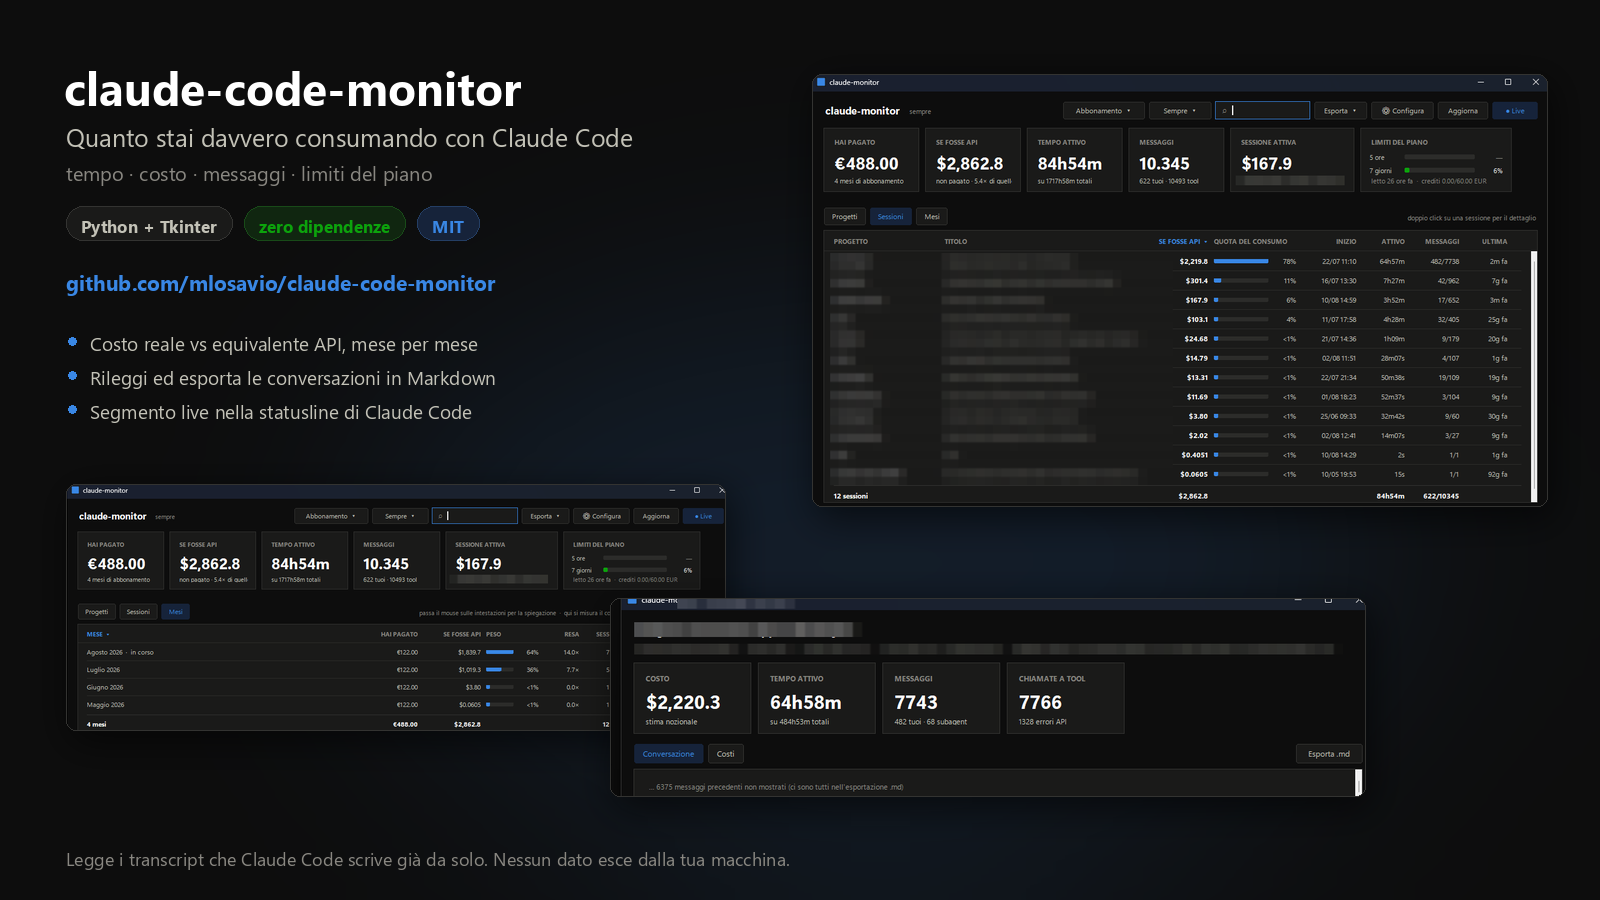
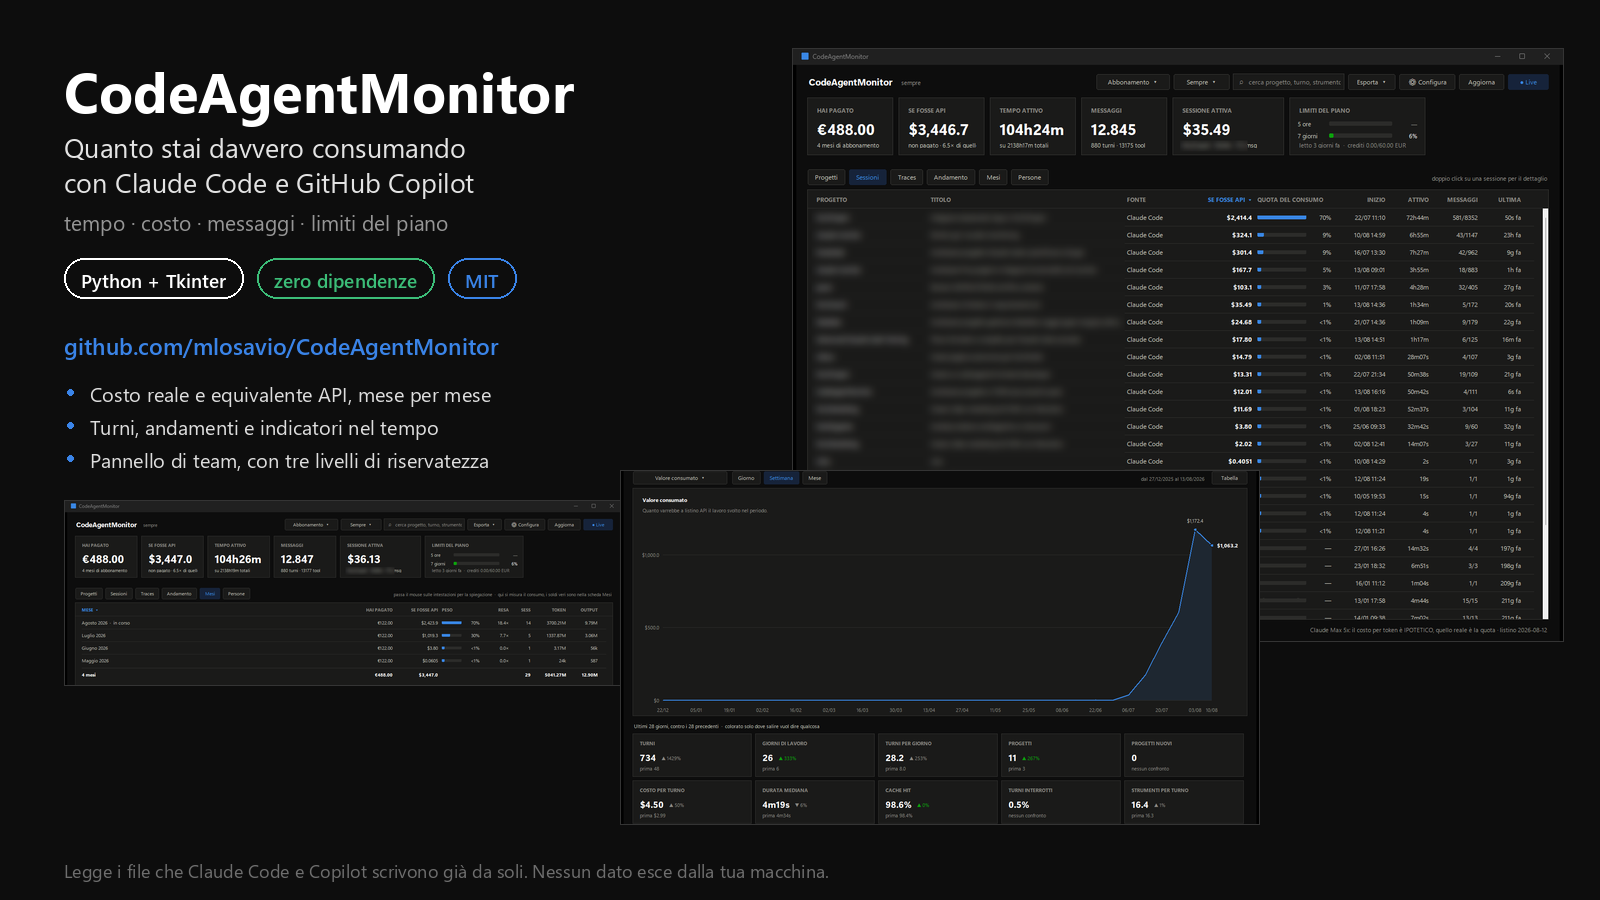
Linux provato, la copertina non mente piu', e un token che diceva il falso
La copertina era rimasta al nome vecchio: diceva «claude-code-monitor»,
mostrava barre delle finestre «claude-monitor» e mandava a un indirizzo
GitHub che non e' piu' quello. Era la prima cosa che si vedeva sul repo,
e smentiva il commit che ha cambiato nome. Rifatta dalle finestre di
oggi: numeri veri e aggiornati (488 EUR pagati contro $3.446,7 a
listino), nomi dei progetti sfocati come prima, e le righe Copilot
accanto a quelle Claude Code col trattino nei costi — che e' la cosa
che la vecchia immagine non poteva mostrare.

PF11, meta' Linux. Le 491 prove girano verdi su Ubuntu 22.04 con Python
3.10, in una cartella nativa e non su /mnt/c, e il CLI e' stato usato
li' davvero. Le tre cose «da verificare» erano indovinate, ma nessuna
e' andata come previsto:

  chiave()          il codice era giusto, la prova era sbagliata. Su
                    POSIX normcase non tocca le maiuscole, ed e' giusto:
                    li' Sessione.jsonl e SESSIONE.jsonl sono due file
                    diversi. La prova ora si divide col sistema.

  _progetto_di()    bug vero. lstrip("/") e' giusto per file:///c%3A/…
                    e sbagliato ovunque altro: su Linux e macOS
                    /home/tizio/X diventava home/tizio/X, un percorso
                    RELATIVO. Il nome del progetto restava giusto, quindi
                    non si vedeva: sbagliava solo il percorso, che e'
                    quello che finisce in archivio.
[…]

diff --git a/test_copilot.py b/test_copilot.py
@@ -159,6 +159,39 @@ def prova_senza_progetto(tmp):
              ["(senza progetto)", "(senza progetto)"])
 
 
+def prova_percorsi_dei_tre_sistemi(tmp):
+    print("\nIl percorso del progetto, come lo scrive VS Code su ognuno dei tre sistemi")
+    # Non dipende dal sistema su cui girano le prove: e' la stessa funzione a
+    # dover leggere tutte e tre le forme, perche' l'archivio di una postazione
+    # puo' finire su un'altra — e perche' altrimenti questa prova sarebbe verde
+    # su Windows proprio dove il codice sbagliava.
+    d = os.path.join(tmp, "ws")
+    os.makedirs(d, exist_ok=True)
+
+    def percorso_da(uri):
+        with open(os.path.join(d, "workspace.json"), "w", encoding="utf-8") as fh:
+            json.dump({"folder": uri}, fh)
+        return cp._progetto_di(d)
+
+    nome, path = percorso_da("file:///c%3A/MLO/D/Projects/Tizio")
+    verifica("Windows: la lettera di unita' torna maiuscola", path, "C:/MLO/D/Projects/Tizio")
+    verifica("Windows: e il nome e' l'ultima cartella", nome, "Tizio")
+
+    nome, path = percorso_da("file:///home/tizio/Progetti/Caio")
+    verifica("Linux: il percorso resta assoluto", path, "/home/tizio/Progetti/Caio")
+    verifica("Linux: e non relativo", path.startswith("/"), True)
+    verifica("Linux: il nome e' l'ultima cartella", nome, "Caio")
+
+    nome, path = percorso_da("file:///Users/tizio/Progetti/Sempronio")
+    verifica("macOS: il percorso resta assoluto", path, "/Users/tizio/Progetti/Sempronio")
+    verifica("macOS: il nome e' l'ultima cartella", nome, "Sempronio")
+
+    nome, path = percorso_da("file:///home/tizio/Con%20Spazio")
+    verifica("gli spazi codificati tornano spazi", path, "/home/tizio/Con Spazio")
+
+    os.remove(os.path.join(d, "workspace.json"))
+
+
 def prova_testo(tmp):
     print("\nIl testo, solo se richiesto")
     scrivi_sessione(tmp, "abc", "s.json",
@@ -227,8 +260,8 @@ def main() -> int:
     print("Prove sulla sorgente Copilot")
     print("=" * 72)
     for prova in (prova_lettura, prova_niente_costo, prova_file_strani,
-                  prova_senza_progetto, prova_testo, prova_ordine,
-                  prova_integrazione):
+                  prova_senza_progetto, prova_percorsi_dei_tre_sistemi,
+                  prova_testo, prova_ordine, prova_integrazione):
         tmp = tempfile.mkdtemp(prefix="cam-copilot-")
         try:
             prova(tmp)

diff --git a/cam_gui.py b/cam_gui.py
@@ -107,6 +107,28 @@ def windows_prefers_dark() -> bool:
         return False
 
 
+def apri_cartella(dove: str) -> bool:
+    """Apre una cartella nel gestore file del sistema. True se ci e' riuscita.
+
+    Ogni sistema ha il suo comando e nessuno dei tre esiste sugli altri:
+    `os.startfile` c'e' solo su Windows, `open` solo su macOS. Il valore di
+    ritorno serve perche' chi ha appena risposto «si'» a «apro la cartella?»
+    deve sapere se e' successo: fallire in silenzio dopo una domanda e' peggio
+    che non averla fatta.
+    """
+    try:
+        if os.name == "nt":
+            os.startfile(dove)  # type: ignore[attr-defined]  # solo Windows
+        else:
+            import subprocess
+            comando = "open" if sys.platform == "darwin" else "xdg-open"
+            subprocess.Popen([comando, dove],
+                             stdout=subprocess.DEVNULL, stderr=subprocess.DEVNULL)
+        return True
+    except Exception:
+        return False
+
+
 class Theme:
     def __init__(self, mode: str):
         self.mode = mode
@@ -3724,10 +3746,9 @@ class App:
                     if messagebox.askyesno(APP_TITLE,
                                            f"Esportate {result['written']} conversazioni.\n\n"
                                            "Apro la cartella?"):
-                        try:
-                            os.startfile(dove)
-                        except Exception:
-                            pass
+                        if not apri_cartella(dove):
+                            self.l_status.config(
+                                text=f"⚠ non riesco ad aprire la cartella  ·  {dove}")
                 else:
                     _, _r, _d, err = payload
                     self._set_progress(0)

diff --git a/test_archivio.py b/test_archivio.py
@@ -136,8 +136,19 @@ def prova_cache(tmp, base):
         verifica("il file e' in cache", k in idx, True)
         verifica("con la sua dimensione", idx[k][0], st.st_size)
         verifica("e il record si rilegge", a.record(path)["session_id"], SID)
-        verifica("un percorso scritto diversamente e' lo stesso file",
-                 ar.chiave(path.replace("\\", "/").upper()) == k, True)
+        # Vale ovunque: i segmenti ridondanti spariscono, il file resta uno.
+        ovvio = os.path.join(os.path.dirname(path), ".", os.path.basename(path))
+        verifica("un percorso con segmenti in piu' e' lo stesso file",
+                 ar.chiave(ovvio) == k, True)
+        # Qui le due famiglie di sistemi si dividono, e la forma canonica deve
+        # dividersi con loro: su Windows Cartella\File e CARTELLA/FILE sono lo
+        # stesso file, su Linux e' un altro file — che potrebbe esistere davvero.
+        if os.path.normcase("A") == "a":
+            verifica("su Windows maiuscole e barre non contano",
+                     ar.chiave(path.replace("\\", "/").upper()) == k, True)
+        else:
+            verifica("su POSIX un altro modo di scrivere le maiuscole e' un altro file",
+                     ar.chiave(path.upper()) == k, False)
         verifica("un file mai visto non c'e'", a.record(path + ".altro"), None)
 
 

diff --git a/cam_collector.py b/cam_collector.py
@@ -1859,9 +1859,13 @@ def print_setup(endpoint: str, token: str | None = None) -> None:
     print()
     if token:
         print("L'intestazione porta il token, quindi chi usa la postazione lo")
-        print("puo' leggere: autorizza a scrivere in archivio, non a leggerlo.")
-        print("Senza, l'esportatore prende 401, ritenta in silenzio e smette —")
-        print("nessun errore da nessuna parte, solo telemetria che non arriva.")
+        print("puo' leggere — ed e' LO STESSO token che apre il cruscotto, dove")
+        print("si vede quanto consuma ogni collega. Distribuirlo e' quindi una")
+        print("decisione, non un dettaglio tecnico: o lo si accetta, o il")
+        print("cruscotto non va esposto alla rete.")
+        print("Senza token, l'esportatore prende 401, ritenta in silenzio e")
+        print("smette — nessun errore da nessuna parte, solo telemetria che")
+        print("non arriva.")
         print()
     elif not endpoint.startswith(("http://127.0.0.1", "http://localhost")):
         print("Il raccoglitore non e' in locale ma qui non c'e' nessun token.")

diff --git a/cam_copilot.py b/cam_copilot.py
@@ -84,11 +84,14 @@ def _progetto_di(cartella_hash: str) -> tuple[str | None, str | None]:
         return None, None
     if not uri:
         return None, None
-    # file:///c%3A/MLO/D/Projects/Tizio -> C:/MLO/D/Projects/Tizio
     p = urllib.parse.unquote(urllib.parse.urlparse(uri).path or "")
-    p = p.lstrip("/")
-    if len(p) > 1 and p[1] == ":":
-        p = p[0].upper() + p[1:]
+    # file:///c%3A/MLO/D/Projects/Tizio -> C:/MLO/D/Projects/Tizio
+    # La barra iniziale si toglie solo se davanti a una lettera di unita': su
+    # macOS e Linux e' parte del percorso, e toglierla lo renderebbe relativo —
+    # cioe' riferito alla cartella da cui e' partito il programma, che non
+    # c'entra niente.
+    if len(p) > 2 and p[0] == "/" and p[1].isalpha() and p[2] == ":":
+        p = p[1].upper() + p[2:]
     return (os.path.basename(p.rstrip("/\\")) or p or None), (p or None)
 
 

diff --git a/cam_archivio.py b/cam_archivio.py
@@ -196,6 +196,10 @@ def chiave(path: str) -> str:
     ha costruito il percorso: maiuscole, barre, percorsi relativi. Senza una
     forma unica lo stesso transcript finirebbe in archivio due volte, e la
     seconda copia sembrerebbe lavoro in piu' che non e' mai esistito.
+
+    Su macOS e Linux `normcase` non tocca le maiuscole, ed e' giusto cosi':
+    li' `Sessione.jsonl` e `SESSIONE.jsonl` sono due file diversi che possono
+    esistere entrambi. Appiattirli renderebbe uno invisibile all'altro.
     """
     return os.path.normcase(os.path.abspath(path))
 

diff --git a/TODO.md b/TODO.md
@@ -21,9 +21,10 @@ quello che manca.
 | [PF08](#pf08--modelli-con-finestra-da-1m-al-prezzo-sbagliato) | Modelli con finestra da 1M al prezzo sbagliato | **fatto** 13/08 | — |
 | [PF09](#pf09--i-timestamp-sono-il-60-della-cache-di-analisi) | I timestamp sono il 60% della cache di analisi | **fatto** 13/08 | — |
 | [PF10](#pf10--manutenzione-dellarchivio) | Manutenzione dell'archivio | **fatto** 13/08 | — |
-| [PF11](#pf11--prove-su-macos-e-linux) | Prove su macOS e Linux | da fare | — |
+| [PF11](#pf11--prove-su-macos-e-linux) | Prove su macOS e Linux | **Linux fatto** 13/08 · macOS sospesa | — |
 | [PF12](#pf12--le-postazioni-che-consumano-e-non-sono-in-fattura) | Le postazioni che consumano e non sono in fattura | **fatto** 13/08 | — |
 | [PF13](#pf13--andamento-delladozione-nel-team) | Andamento dell'adozione nel team | **fatto** 13/08 | PF04 |
+| [PF14](#pf14--il-raccoglitore-fuori-dalla-rete-aziendale) | Il raccoglitore fuori dalla rete aziendale | da fare | — |
 
 ---
 
@@ -290,14 +291,62 @@ guardare — oggi, dopo PF09, sono 1,1 MB.
 
 ### PF11 — Prove su macOS e Linux
 
-**Stato:** da fare · **Dipende da:** —
+**Stato:** in corso il 2026-08-13 — **Linux fatto, macOS no** · **Dipende da:** —
 
-Sviluppato e provato solo su Windows. Il codice usa percorsi portabili (`expanduser`,
-`USERPROFILE`/`LOCALAPPDATA`) e non ha dipendenze, ma «dovrebbe funzionare» non è «funziona».
+Provato su **Ubuntu 22.04 con Python 3.10.12**, in una cartella nativa e non su `/mnt/c`:
+altrimenti si prova un filesystem Windows travestito da Linux. Le **491 prove** sono verdi lì
+come qui, e il CLI è stato usato per davvero — riepilogo, `--traces`, `--trend`, `--archivio`,
+`--export-md` — con accenti e cornici al loro posto. Ricadute: il README non dice più
+«provato su Windows», dice cosa è provato e cosa no.
 
-Da verificare in particolare: la forma canonica dei percorsi in `cam_archivio.chiave()`
-(`normcase` si comporta diversamente), la barra del titolo scura della GUI (è codice Windows), e
-il fatto che le prove girino.
+Le tre cose da verificare erano indovinate. Ecco come sono andate.
+
+**`cam_archivio.chiave()` — il codice era giusto, la prova era sbagliata.** Su POSIX `normcase`
+non tocca le maiuscole, ed è **corretto**: lì `Sessione.jsonl` e `SESSIONE.jsonl` sono due file
+diversi che possono esistere entrambi, e appiattirli renderebbe uno invisibile all'altro. A
+cadere era la prova, che pretendeva l'insensibilità alle maiuscole ovunque. Ora si divide col
+sistema e dichiara il comportamento giusto da entrambe le parti — che è più di quanto facesse
+prima, quando su Windows era verde e su Linux non esisteva.
+
+**Il percorso dei progetti Copilot — bug vero, trovato solo perché si è provato.**
+`_progetto_di()` faceva `lstrip("/")` sul percorso estratto dall'URI: giusto per
+`file:///c%3A/…`, dove la barra precede la lettera di unità, **sbagliato ovunque altro**.
+Su macOS e Linux `file:///home/tizio/Progetti/X` diventava `home/tizio/Progetti/X` — un percorso
+**relativo**, cioè riferito alla cartella da cui è partito il programma, che non c'entra niente.
+Il nome del progetto restava giusto (è l'ultima cartella), quindi in interfaccia non si vedeva:
+sbagliava solo il percorso, che è quello che finisce in archivio. La barra ora si toglie solo
+davanti a una lettera di unità, e `prova_percorsi_dei_tre_sistemi` tiene ferme tutte e tre le
+forme **su qualunque sistema** — perché una prova che dipende da dove gira sarebbe stata verde
+su Windows proprio dove il codice sbagliava.
+
+**La GUI — non è la barra del titolo, è `os.startfile`.** La barra scura era già dietro
+`os.name != "nt"` e il registro dentro un `try`. Il vero problema era in fondo all'export:
+`os.startfile` **non esiste** fuori da Windows, e stava dentro un `except: pass`. Quindi su
+Linux la domanda «Apro la cartella?» riceveva un sì e poi non succedeva niente, senza che
+nessuno lo dicesse — una domanda a cui mentire è peggio di una domanda non fatta. Adesso c'è
+`apri_cartella()`, che usa `open` su macOS e `xdg-open` su Linux e **restituisce se ce l'ha
+fatta**; se no, lo scrive nella barra di stato.
+
+**Quello che resta, e la decisione presa il 13/08.**
+
+- **La GUI su Linux non è stata eseguita**, solo compilata. Su Debian e Ubuntu `tkinter` non
+  arriva con Python — è `python3-tk`, un pacchetto a parte, e su questa macchina l'installazione
+  voleva una password. È finito nel README fra i requisiti, perché «niente altro» lì era falso.
+- **macOS: sospesa, non scartata.** Nessuna delle tre correzioni è stata vista girare su un Mac:
+  sono scritte perché siano giuste lì, che non è la stessa cosa.
+
+**Perché Linux sì e macOS no.** Non sono lo stesso lavoro, perché i tre pezzi di CAM girano su
+macchine diverse e ognuno ha il suo sistema:
+
+| pezzo | dove gira | quale sistema |
+|---|---|---|
+| `cam.py`, `cam_gui.py` — la console | macchina dell'amministratore | Windows, ed è l'unico che conta |
+| `cam_agent.py` — su ogni postazione | ogni sviluppatore | quello che hanno loro |
+| `cam_collector.py` — il raccoglitore | il server | **Linux, se finisce su un VPS** — vedi PF14 |
+
+Linux era da fare perché è il sistema del raccoglitore appena esce dalla macchina di casa.
+macOS serve solo il giorno in cui una postazione è un Mac: **si riapre allora**, e le prove da
+rifare sono già scritte — `prova_percorsi_dei_tre_sistemi` non dipende dal sistema su cui gira.
 
 ---
 
@@ -343,3 +392,45 @@ Ricadute su `TrendChart`, che ora accetta una riga di riferimento e un dettaglio
 pluggabile: prima la seconda riga del tooltip era cablata sulle metriche personali (`turni`,
 `progetti`), e con una serie diversa sarebbe esplosa.
 
+### PF14 — Il raccoglitore fuori dalla rete aziendale
+
+**Stato:** da fare · **Dipende da:** —
+
+Il raccoglitore oggi è pensato per una LAN: una macchina sempre accesa, raggiungibile dalle
+postazioni, dietro il firewall aziendale. La domanda che lo mette in crisi è legittima e
+ricorrente — **i portatili che lavorano fuori sede** — e la risposta ovvia, un VPS con la porta
+aperta su Internet, oggi **non si può dare**. Tre ragioni, in ordine di gravità.
+
+**Non c'è TLS. Per niente.** `cam_collector.py` è un `ThreadingHTTPServer` in chiaro: in tutto il
+modulo non compare `ssl`. In LAN è una scelta difendibile; su un indirizzo pubblico vuol dire che
+passano in chiaro i percorsi dei progetti, i costi, gli indirizzi — e **il token stesso, a ogni
+richiesta**.
+
+**Il token è uno solo, e vale in lettura come in scrittura.** `_autorizzato()` non distingue le
+rotte, ed è documentato che sia così: un cruscotto aperto mostrerebbe a chiunque quanto consuma
+ogni persona. Ma la conseguenza è che **il token dato a ogni postazione per scrivere apre anche
+il cruscotto di tutti**. Il messaggio di `--setup` diceva l'opposto — «autorizza a scrivere in
+archivio, non a leggerlo» — ed è stato corretto il 13/08: era la frase che porta un
+amministratore a distribuirlo credendolo innocuo.
+
+**Su un VPS il livello «pseudonimo» si annulla da solo.** La regola dichiarata è che la chiave
+stia in una cartella diversa dall'archivio, con permessi diversi, «altrimenti lo annulla senza
+che nulla smetta di funzionare». Su un server affittato finiscono sullo stesso disco, sotto lo
+stesso root, dentro gli stessi snapshot del fornitore.
+
+E una conseguenza che non è di sicurezza ma si sente subito: **la GUI legge `cam-team.db` come
+file** (`team_db_candidates()`, nessun client HTTP nel modulo). Col raccoglitore su un VPS la
+scheda Persone non ha più niente da leggere, e all'amministratore resta il cruscotto web — che è
+un'altra interfaccia, non la sua.
+
+**La strada che non richiede di scrivere niente**, ed è quella da provare per prima: una rete
+privata (WireGuard, Tailscale) fra postazioni e VPS, col raccoglitore in ascolto **solo**
+sull'indirizzo dell'overlay e mai su `0.0.0.0`. Il VPS resta fuori sede per raggiungibilità —
+che è quello che serve ai portatili — ma il raccoglitore non è mai su Internet, HTTP in chiaro
+torna difendibile, e la GUI ritrova il suo file perché sull'overlay il VPS è una macchina di rete
+come le altre. Se funziona, questa PF si chiude **senza una riga di codice**, e quello che
+produce è documentazione.
+
+Da scrivere solo se quella strada non basta, in quest'ordine: TLS nel raccoglitore (o l'indicazione
+esplicita di un reverse proxy davanti, che è meno codice e più standard), e token distinti per
+lettura e scrittura. Il secondo è utile **anche in LAN**, indipendentemente dal VPS.

diff --git a/README.md b/README.md
@@ -57,6 +57,13 @@ copy config.example.json config.json
 python cam.py
 ```
 
+Su **Debian e Ubuntu** l'interfaccia grafica vuole un pacchetto in più: lì `tkinter` non
+arriva con Python, sta a parte. Il CLI funziona anche senza.
+
+```sh
+sudo apt install python3-tk        # solo per python cam_gui.py
+```
+
 Apri `config.json` (o il pulsante **Configura** nella GUI) e metti il tuo piano e quanto paghi
 al mese: è l'unico dato che il tool non può ricavare da solo.
 
@@ -1348,8 +1355,14 @@ motivo per cui l'archivio **non** è stato messo per la velocità.
 - **Il campo `real_cost` delle sessioni non va sommato per progetto**: è la quota ripartita per
   *mese*, quindi in un mese poco usato un progetto da pochi dollari si prende tutto il canone.
   Per il team la cifra buona è postazioni × quota, che è quella che il pannello mostra.
-- Sviluppato e provato su **Windows**. Il codice usa solo percorsi portabili (`expanduser`,
-  `USERPROFILE`/`LOCALAPPDATA`) ma su macOS e Linux non è stato testato: segnalazioni benvenute.
+- **Su Linux il CLI è provato, la GUI no.** Le 491 prove girano verdi su Ubuntu 22.04 con
+  Python 3.10, e il CLI è stato usato lì per davvero: riepilogo, turni, andamenti, archivio ed
+  export Markdown. `cam_gui.py` invece è solo stato compilato — il codice specifico di Windows
+  che contiene (registro dei temi, barra del titolo scura, apertura di una cartella) prende
+  strade diverse fuori da Windows, e quelle strade nessuno le ha ancora percorse.
+- **Su macOS non è stato provato niente.** Il codice tratta i suoi percorsi
+  (`~/Library/Application Support` per Copilot) e apre le cartelle con `open`, ma «dovrebbe
+  funzionare» non è «funziona». Segnalazioni benvenute.
 
 ---
 
